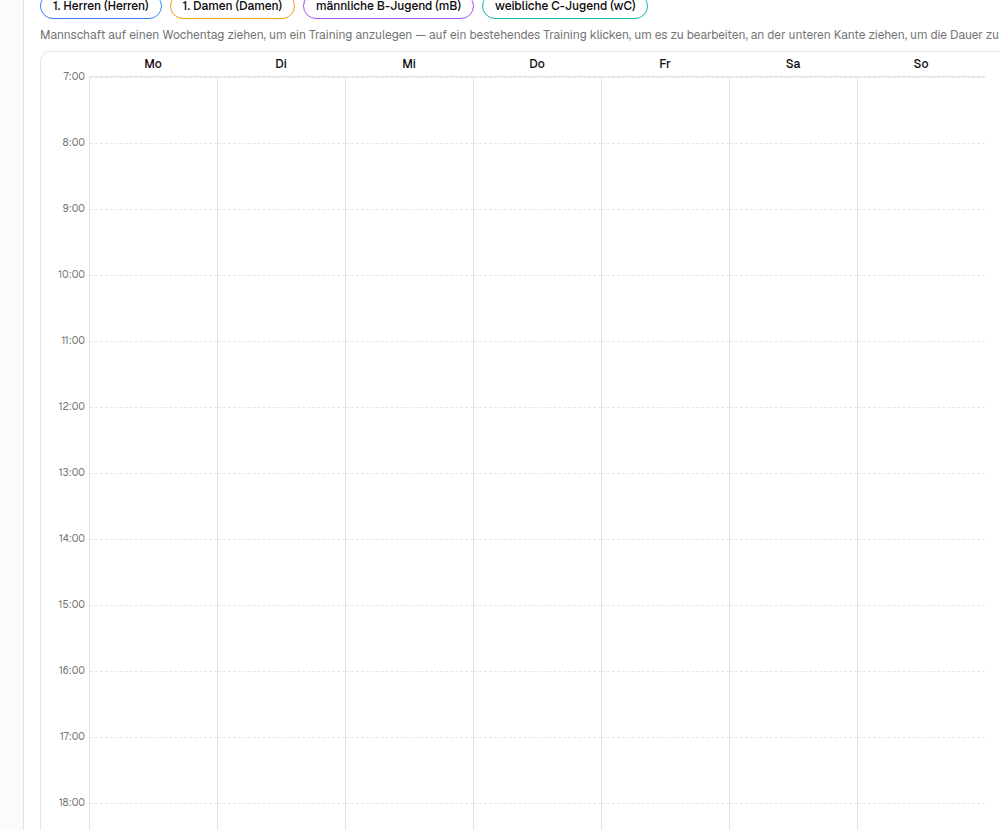
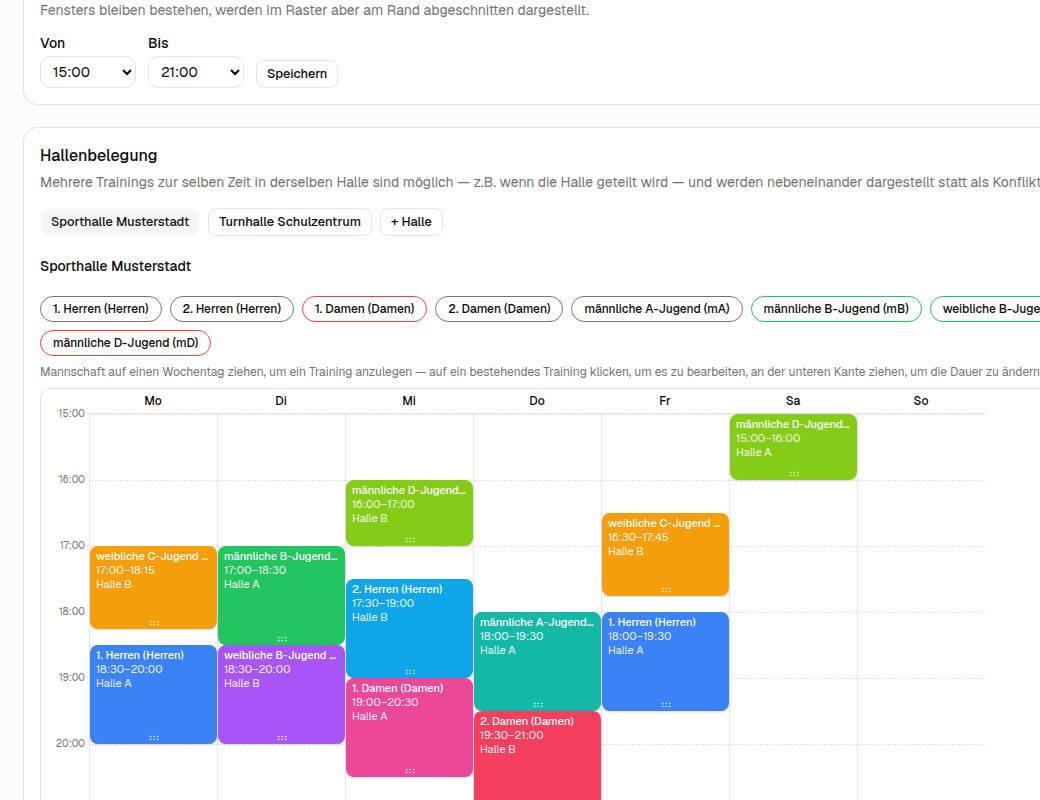
Trainingsplan-Screenshot deutlich dichter befüllen
Mehr Mannschaften (9 statt 4) und viel mehr Trainingszeiten über
fast alle Wochentage verteilt, zwei Abteile parallel — der
Trainingsplan-Screenshot in der Produkttour sah vorher zu leer aus.
Sichtbarer Zeitraum des Demo-Vereins zusätzlich auf 15-21 Uhr
eingeschränkt (statt Standard 7-22 Uhr), macht das Grid kompakter und
zeigt nur die tatsächlich belegten Stunden.

Claude-Session: https://claude.ai/code/session_01GgSFMpnE3hmeS2ekh7ufnM

diff --git a/scripts/produkttour/seed.ts b/scripts/produkttour/seed.ts
@@ -50,6 +50,11 @@ async function main() {
         rundenspielOrdnerBedarf: 2,
         rundenspielKioskdienstBedarf: 1,
         rundenspielZeitnehmerBedarf: 1,
+        // Sichtbarer Zeitraum ab 15 Uhr statt Standard 7 Uhr — kompakteres
+        // Grid im Produkttour-Screenshot, da an diesem Demo-Verein ohnehin
+        // nur ab Nachmittag trainiert wird (siehe trainingszeiten unten).
+        trainingsplanStartMinuten: 15 * 60,
+        trainingsplanEndMinuten: 21 * 60,
       })
       .returning();
 
@@ -94,14 +99,26 @@ async function main() {
 
     const mannschaftsDaten = [
       { name: "1. Herren", altersklasse: "Herren" },
+      { name: "2. Herren", altersklasse: "Herren" },
       { name: "1. Damen", altersklasse: "Damen" },
+      { name: "2. Damen", altersklasse: "Damen" },
+      { name: "männliche A-Jugend", altersklasse: "mA" },
       { name: "männliche B-Jugend", altersklasse: "mB" },
+      { name: "weibliche B-Jugend", altersklasse: "wB" },
       { name: "weibliche C-Jugend", altersklasse: "wC" },
+      { name: "männliche D-Jugend", altersklasse: "mD" },
     ];
     const angelegteMannschaften = [];
+    const mannschaftIdNach = new Map<string, string>();
     for (const m of mannschaftsDaten) {
       const [row] = await tx.insert(mannschaften).values({ vereinId, ...m }).returning();
       angelegteMannschaften.push(row);
+      mannschaftIdNach.set(m.name, row.id);
+    }
+    function mannschaftId(name: string): string {
+      const id = mannschaftIdNach.get(name);
+      if (!id) throw new Error(`Unbekannte Mannschaft: ${name}`);
+      return id;
     }
 
     // Trainer den Mannschaften zuordnen
@@ -109,12 +126,12 @@ async function main() {
       {
         userId: angelegteUser["michael.schaefer@demo.handballerpate.de"],
         typ: "trainer",
-        mannschaftId: angelegteMannschaften[0].id,
+        mannschaftId: mannschaftId("1. Herren"),
       },
       {
         userId: angelegteUser["sabine.klein@demo.handballerpate.de"],
         typ: "trainer",
-        mannschaftId: angelegteMannschaften[1].id,
+        mannschaftId: mannschaftId("1. Damen"),
       },
       {
         userId: angelegteUser["thomas.bauer@demo.handballerpate.de"],
@@ -149,12 +166,18 @@ async function main() {
       .returning();
     const [halle2] = await tx.insert(hallen).values({ vereinId, name: "Turnhalle Schulzentrum" }).returning();
 
+    // Deutlich dichter belegter Wochenplan (Produkttour-Screenshot) — vor
+    // allem Halle 1, da das die beim Öffnen der Seite voreingestellte Halle
+    // ist. Zwei Abteile parallel an möglichst vielen Wochentagen, damit das
+    // Grid auf den ersten Blick nach echtem Spielbetrieb aussieht statt nach
+    // ein paar vereinzelten Blöcken.
     await tx.insert(trainingszeiten).values([
+      // Montag
       {
         vereinId,
-        mannschaftId: angelegteMannschaften[0].id,
+        mannschaftId: mannschaftId("1. Herren"),
         halleId: halle1.id,
-        wochentag: 1,
+        wochentag: 0,
         startMinuten: 18 * 60 + 30,
         endMinuten: 20 * 60,
         farbe: "#3b82f6",
@@ -162,26 +185,132 @@ async function main() {
       },
       {
         vereinId,
-        mannschaftId: angelegteMannschaften[1].id,
+        mannschaftId: mannschaftId("weibliche C-Jugend"),
         halleId: halle1.id,
-        wochentag: 3,
+        wochentag: 0,
+        startMinuten: 17 * 60,
+        endMinuten: 18 * 60 + 15,
+        farbe: "#f59e0b",
+        abteilNummer: 2,
+      },
+      // Dienstag
+      {
+        vereinId,
+        mannschaftId: mannschaftId("männliche B-Jugend"),
+        halleId: halle1.id,
+        wochentag: 1,
+        startMinuten: 17 * 60,
+        endMinuten: 18 * 60 + 30,
+        farbe: "#22c55e",
+        abteilNummer: 1,
+      },
+      {
+        vereinId,
+        mannschaftId: mannschaftId("weibliche B-Jugend"),
+        halleId: halle1.id,
+        wochentag: 1,
+        startMinuten: 18 * 60 + 30,
+        endMinuten: 20 * 60,
+        farbe: "#a855f7",
+        abteilNummer: 2,
+      },
+      // Mittwoch
+      {
+        vereinId,
+        mannschaftId: mannschaftId("1. Damen"),
+        halleId: halle1.id,
+        wochentag: 2,
         startMinuten: 19 * 60,
         endMinuten: 20 * 60 + 30,
         farbe: "#ec4899",
+        abteilNummer: 1,
+      },
+      {
+        vereinId,
+        mannschaftId: mannschaftId("2. Herren"),
+        halleId: halle1.id,
+        wochentag: 2,
+        startMinuten: 17 * 60 + 30,
+        endMinuten: 19 * 60,
+        farbe: "#0ea5e9",
         abteilNummer: 2,
       },
       {
         vereinId,
-        mannschaftId: angelegteMannschaften[2].id,
+        mannschaftId: mannschaftId("männliche D-Jugend"),
+        halleId: halle1.id,
+        wochentag: 2,
+        startMinuten: 16 * 60,
+        endMinuten: 17 * 60,
+        farbe: "#84cc16",
+        abteilNummer: 2,
+      },
+      // Donnerstag
+      {
+        vereinId,
+        mannschaftId: mannschaftId("männliche A-Jugend"),
+        halleId: halle1.id,
+        wochentag: 3,
+        startMinuten: 18 * 60,
+        endMinuten: 19 * 60 + 30,
+        farbe: "#14b8a6",
+        abteilNummer: 1,
+      },
+      {
+        vereinId,
+        mannschaftId: mannschaftId("2. Damen"),
+        halleId: halle1.id,
+        wochentag: 3,
+        startMinuten: 19 * 60 + 30,
+        endMinuten: 21 * 60,
+        farbe: "#f43f5e",
+        abteilNummer: 2,
+      },
+      // Freitag
+      {
+        vereinId,
+        mannschaftId: mannschaftId("1. Herren"),
+        halleId: halle1.id,
+        wochentag: 4,
+        startMinuten: 18 * 60,
+        endMinuten: 19 * 60 + 30,
+        farbe: "#3b82f6",
+        abteilNummer: 1,
+      },
+      {
+        vereinId,
+        mannschaftId: mannschaftId("weibliche C-Jugend"),
+        halleId: halle1.id,
+        wochentag: 4,
+        startMinuten: 16 * 60 + 30,
+        endMinuten: 17 * 60 + 45,
+        farbe: "#f59e0b",
+        abteilNummer: 2,
+      },
+      // Samstag Nachmittag (z.B. Jugend)
+      {
+        vereinId,
+        mannschaftId: mannschaftId("männliche D-Jugend"),
+        halleId: halle1.id,
+        wochentag: 5,
+        startMinuten: 15 * 60,
+        endMinuten: 16 * 60,
+        farbe: "#84cc16",
+        abteilNummer: 1,
+      },
+      // Halle 2 — etwas dünner belegt, wie im echten Verein üblich
+      {
+        vereinId,
+        mannschaftId: mannschaftId("1. Damen"),
         halleId: halle2.id,
         wochentag: 2,
         startMinuten: 17 * 60,
         endMinuten: 18 * 60 + 30,
-        farbe: "#22c55e",
+        farbe: "#ec4899",
       },
       {
         vereinId,
-        mannschaftId: angelegteMannschaften[3].id,
+        mannschaftId: mannschaftId("weibliche C-Jugend"),
         halleId: halle2.id,
         wochentag: 4,
         startMinuten: 16 * 60,
@@ -198,7 +327,7 @@ async function main() {
         ende: tageAb(heute, 4, 16, 30),
         ort: "Sporthalle Musterstadt",
         beschreibung: "TSV Musterstadt - HSG Nachbarstadt",
-        mannschaftId: angelegteMannschaften[0].id,
+        mannschaftId: mannschaftId("1. Herren"),
         pflichtspiel: true,
         heimMannschaftName: "TSV Musterstadt",
         auswaertsMannschaftName: "HSG Nachbarstadt",
@@ -209,7 +338,7 @@ async function main() {
         ende: tageAb(heute, 6, 18, 30),
         ort: "Sporthalle Musterstadt",
         beschreibung: "TSV Musterstadt - TV Bergheim",
-        mannschaftId: angelegteMannschaften[1].id,
+        mannschaftId: mannschaftId("1. Damen"),
         pflichtspiel: true,
         heimMannschaftName: "TSV Musterstadt",
         auswaertsMannschaftName: "TV Bergheim",
@@ -220,7 +349,7 @@ async function main() {
         ende: tageAb(heute, 9, 12, 30),
         ort: "Turnhalle Schulzentrum",
         beschreibung: "Testspiel gegen SG Talblick",
-        mannschaftId: angelegteMannschaften[2].id,
+        mannschaftId: mannschaftId("männliche B-Jugend"),
       },
       {
         typ: "turnier" as const,
@@ -228,7 +357,7 @@ async function main() {
         ende: tageAb(heute, 14, 17, 0),
         ort: "Sporthalle Musterstadt",
         beschreibung: "Jugend-Hallenturnier",
-        mannschaftId: angelegteMannschaften[3].id,
+        mannschaftId: mannschaftId("weibliche C-Jugend"),
       },
       {
         typ: "spiel_ics" as const,
@@ -244,7 +373,7 @@ async function main() {
         ende: tageAb(heute, -3, 16, 30),
         ort: "Sporthalle Musterstadt",
         beschreibung: "TSV Musterstadt - SG Waldstadt",
-        mannschaftId: angelegteMannschaften[0].id,
+        mannschaftId: mannschaftId("1. Herren"),
         pflichtspiel: true,
         heimMannschaftName: "TSV Musterstadt",
         auswaertsMannschaftName: "SG Waldstadt",
